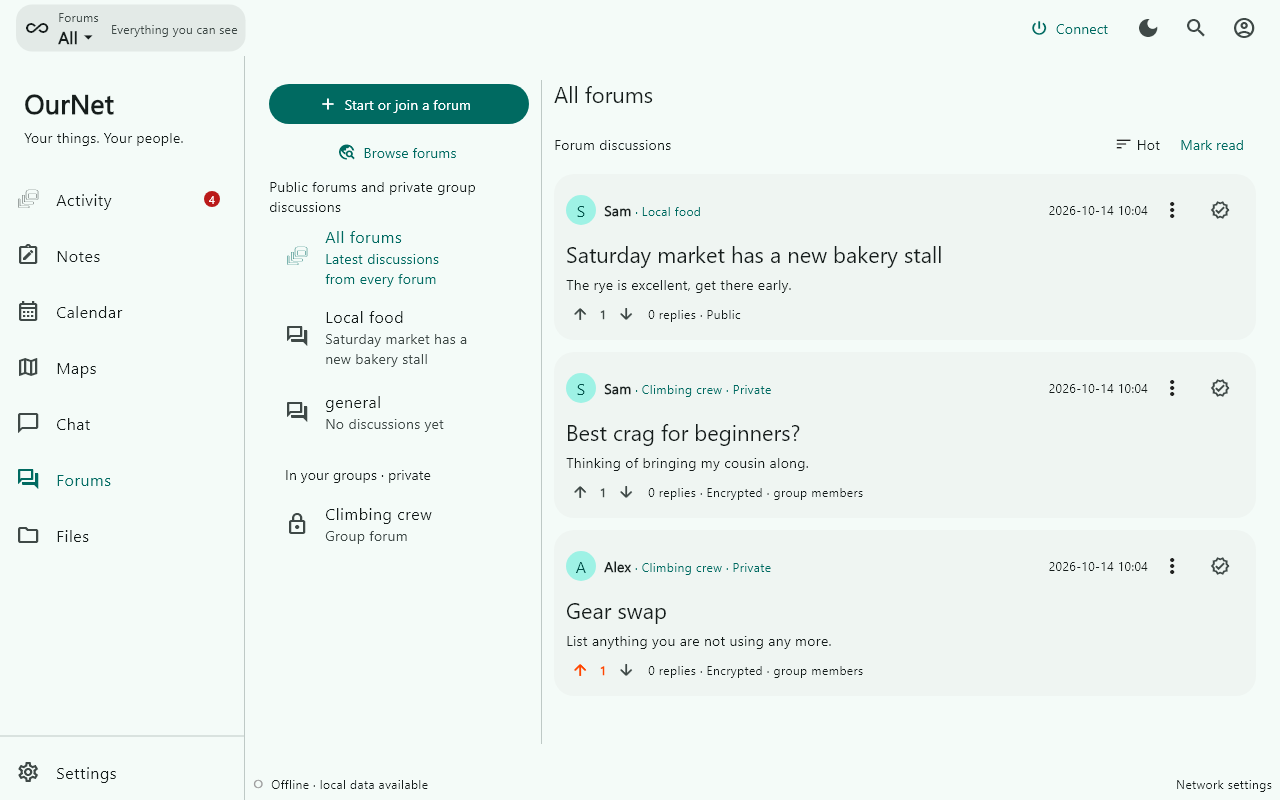
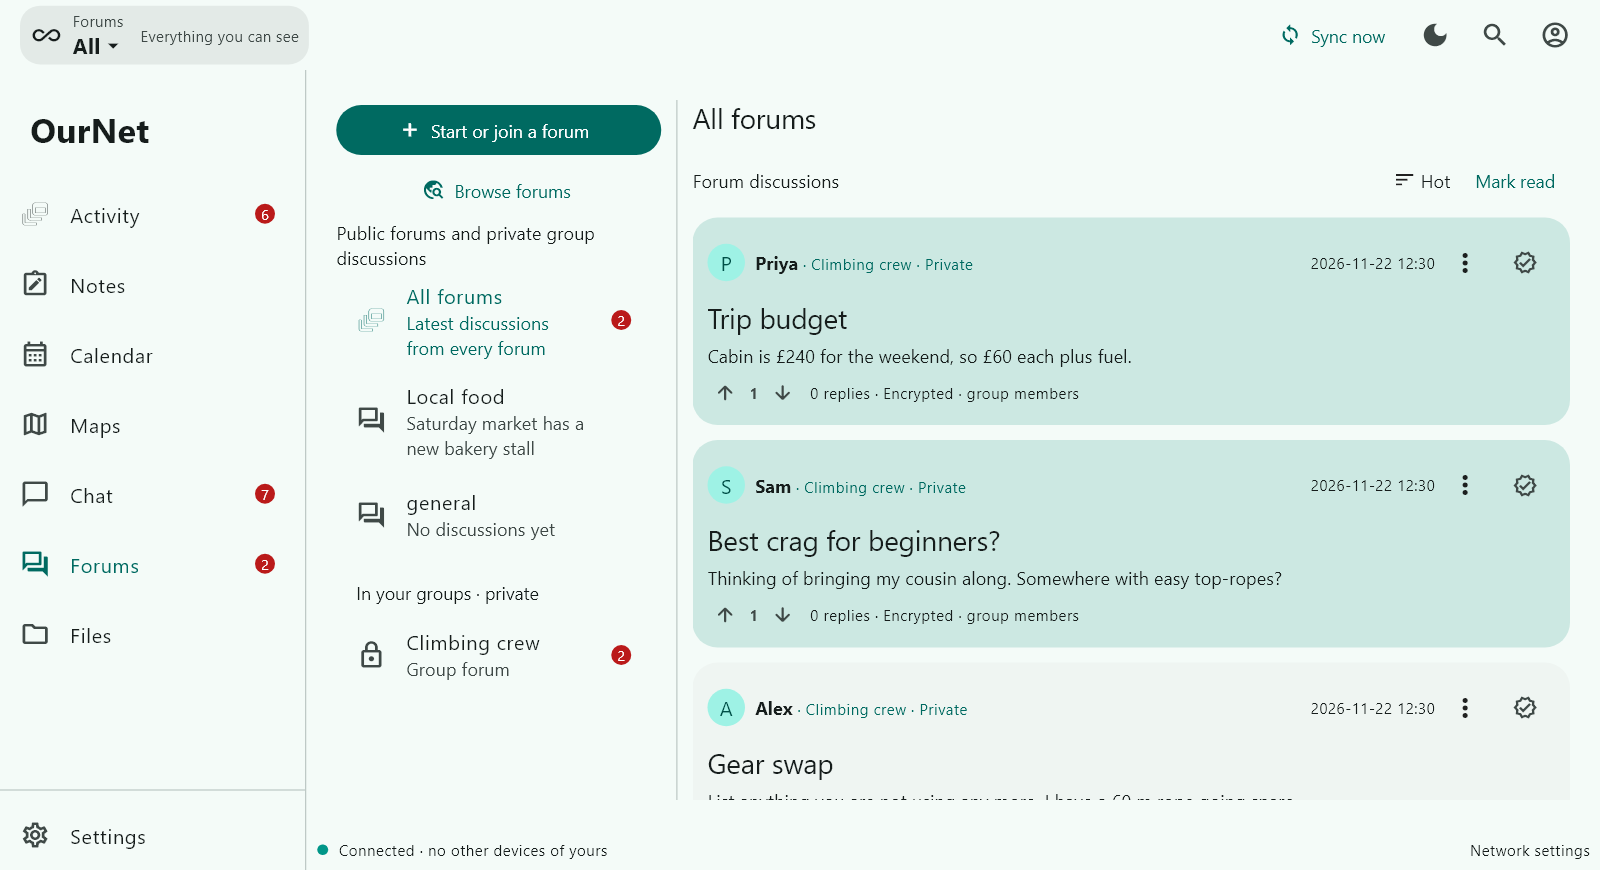
Refresh screenshots from 0.2.66
Redraw the README, store and F-Droid screenshots with the current app.
The README now uses the store test's desktop and phone screens (connected
status, richer demo content) instead of readme_shots_test.

diff --git a/README.md b/README.md
@@ -119,9 +119,10 @@ from `transport`. It stores an encrypted identity vault and SQLite content in
 the chosen folder, and accepts `card`, `add <card>`, `sync`,
 `subscribe <space>`, `post <text>` and `quit`.
 
-The README screenshots come from
-`flutter test test/readme_shots_test.dart --dart-define=README_SHOTS=<folder>`
-in `app`, which draws the app with made-up content.
+The README and store screenshots come from
+`flutter test test/store_shots_test.dart --dart-define=STORE_SHOTS=<folder>`
+in `app`, which draws the app with made-up content; `tool/store_shots.py`
+has the steps.
 
 ## Product and protocol
 
